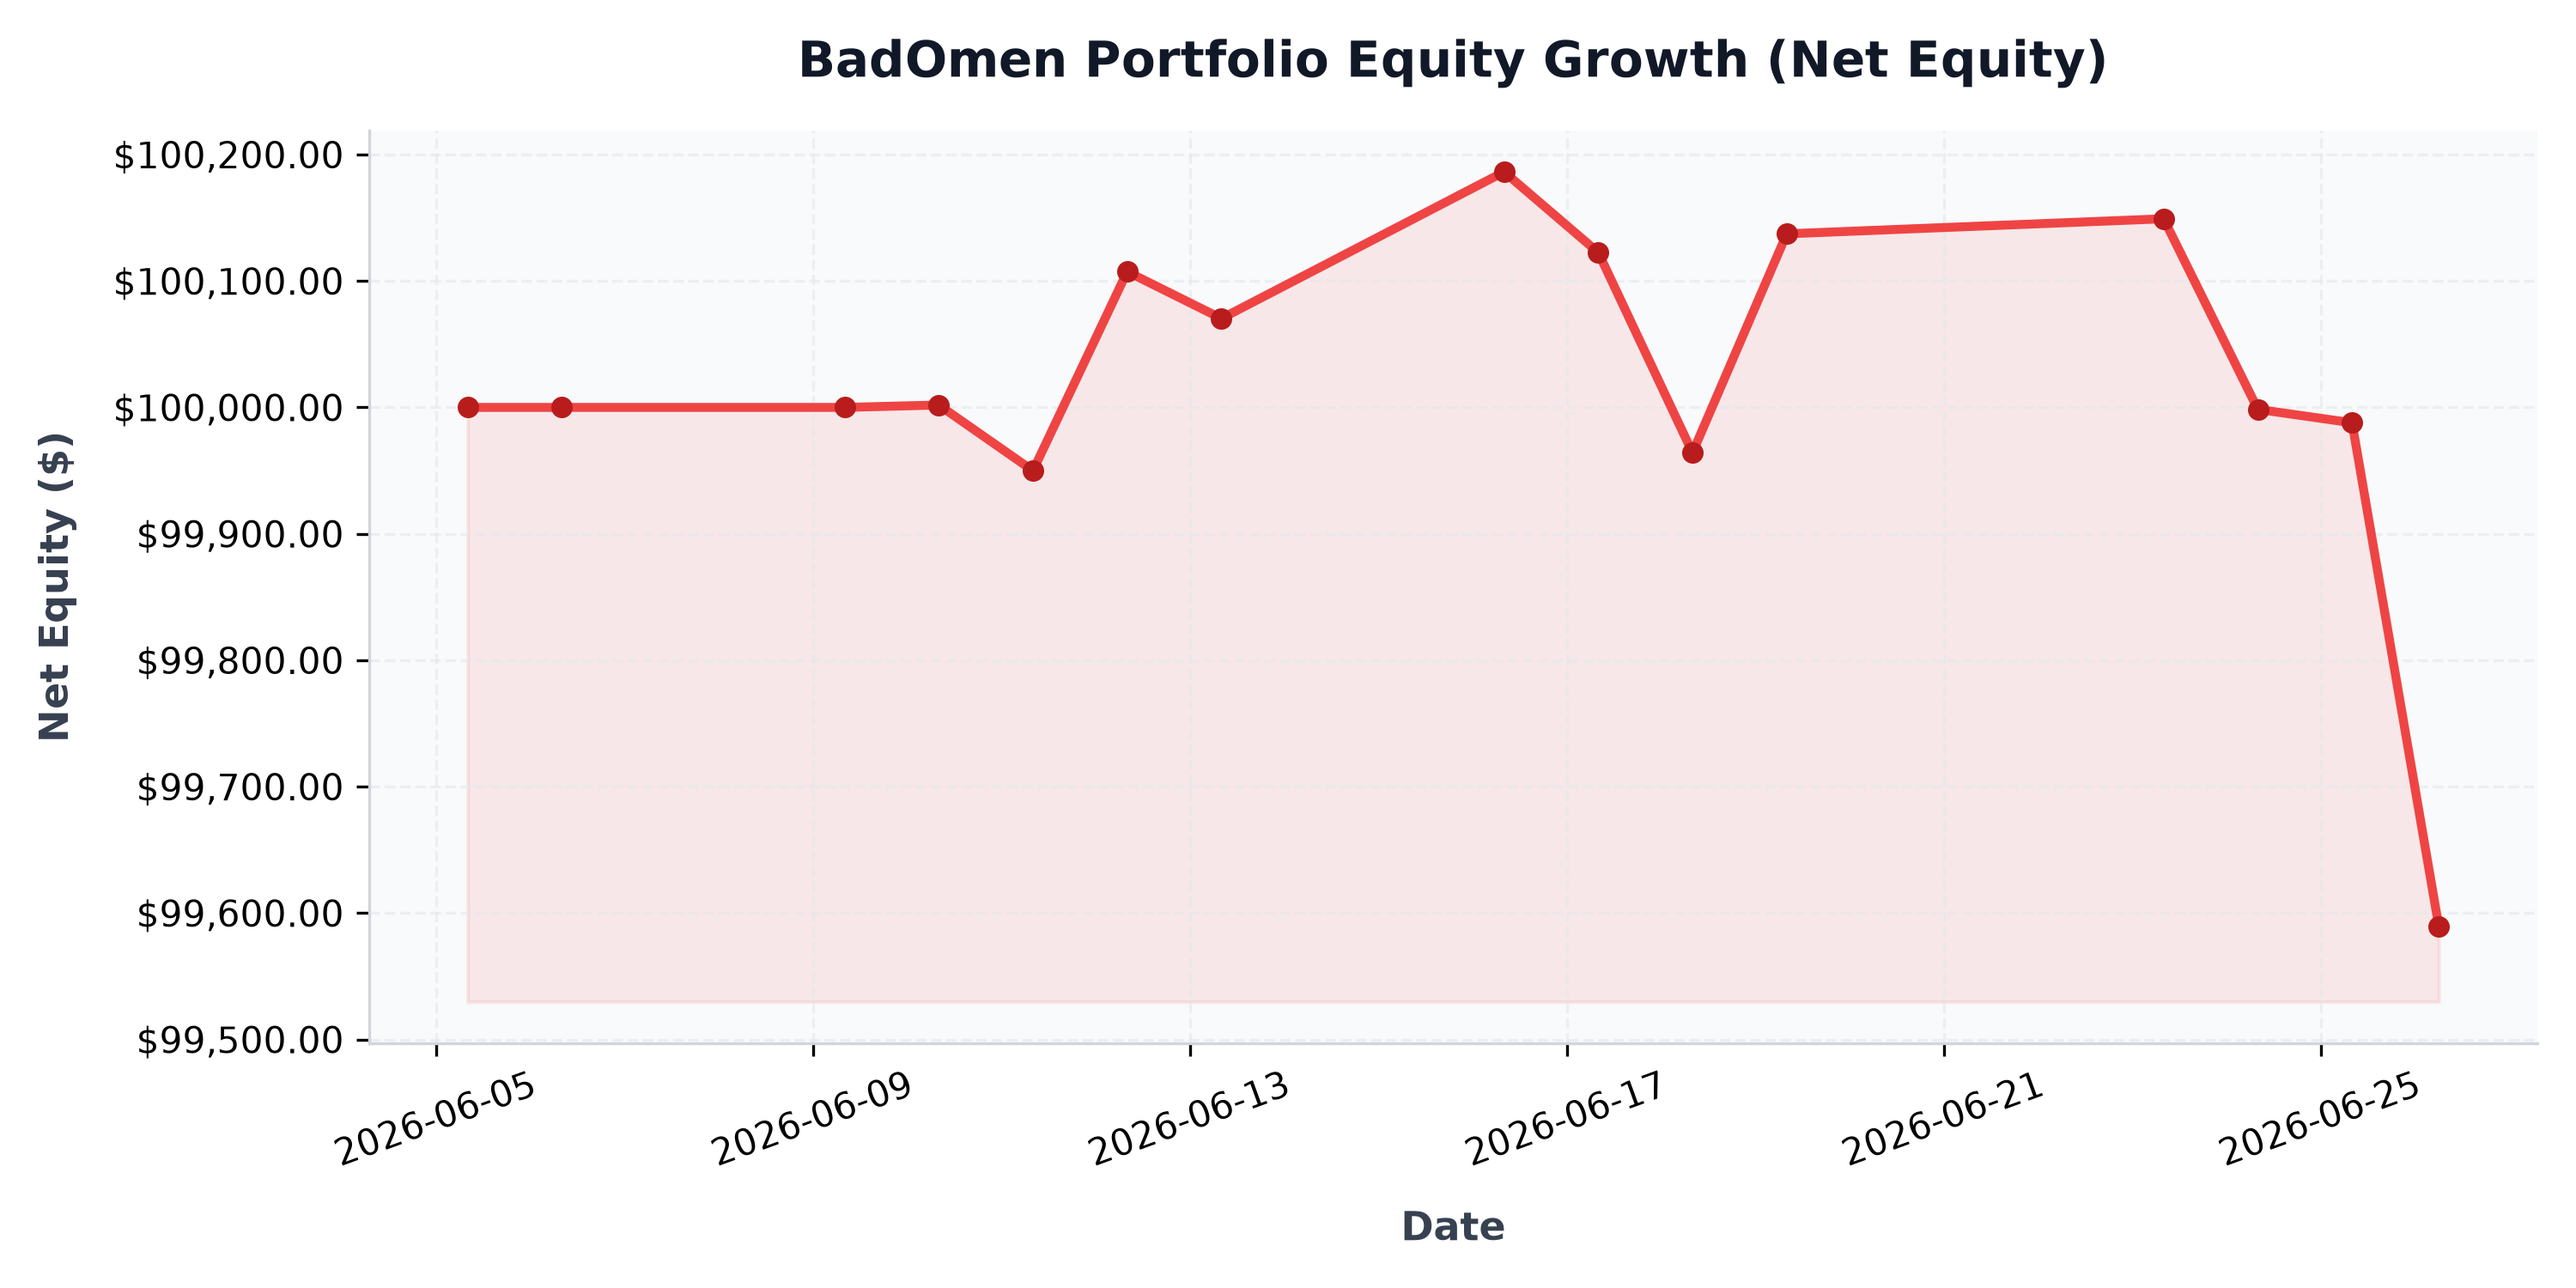
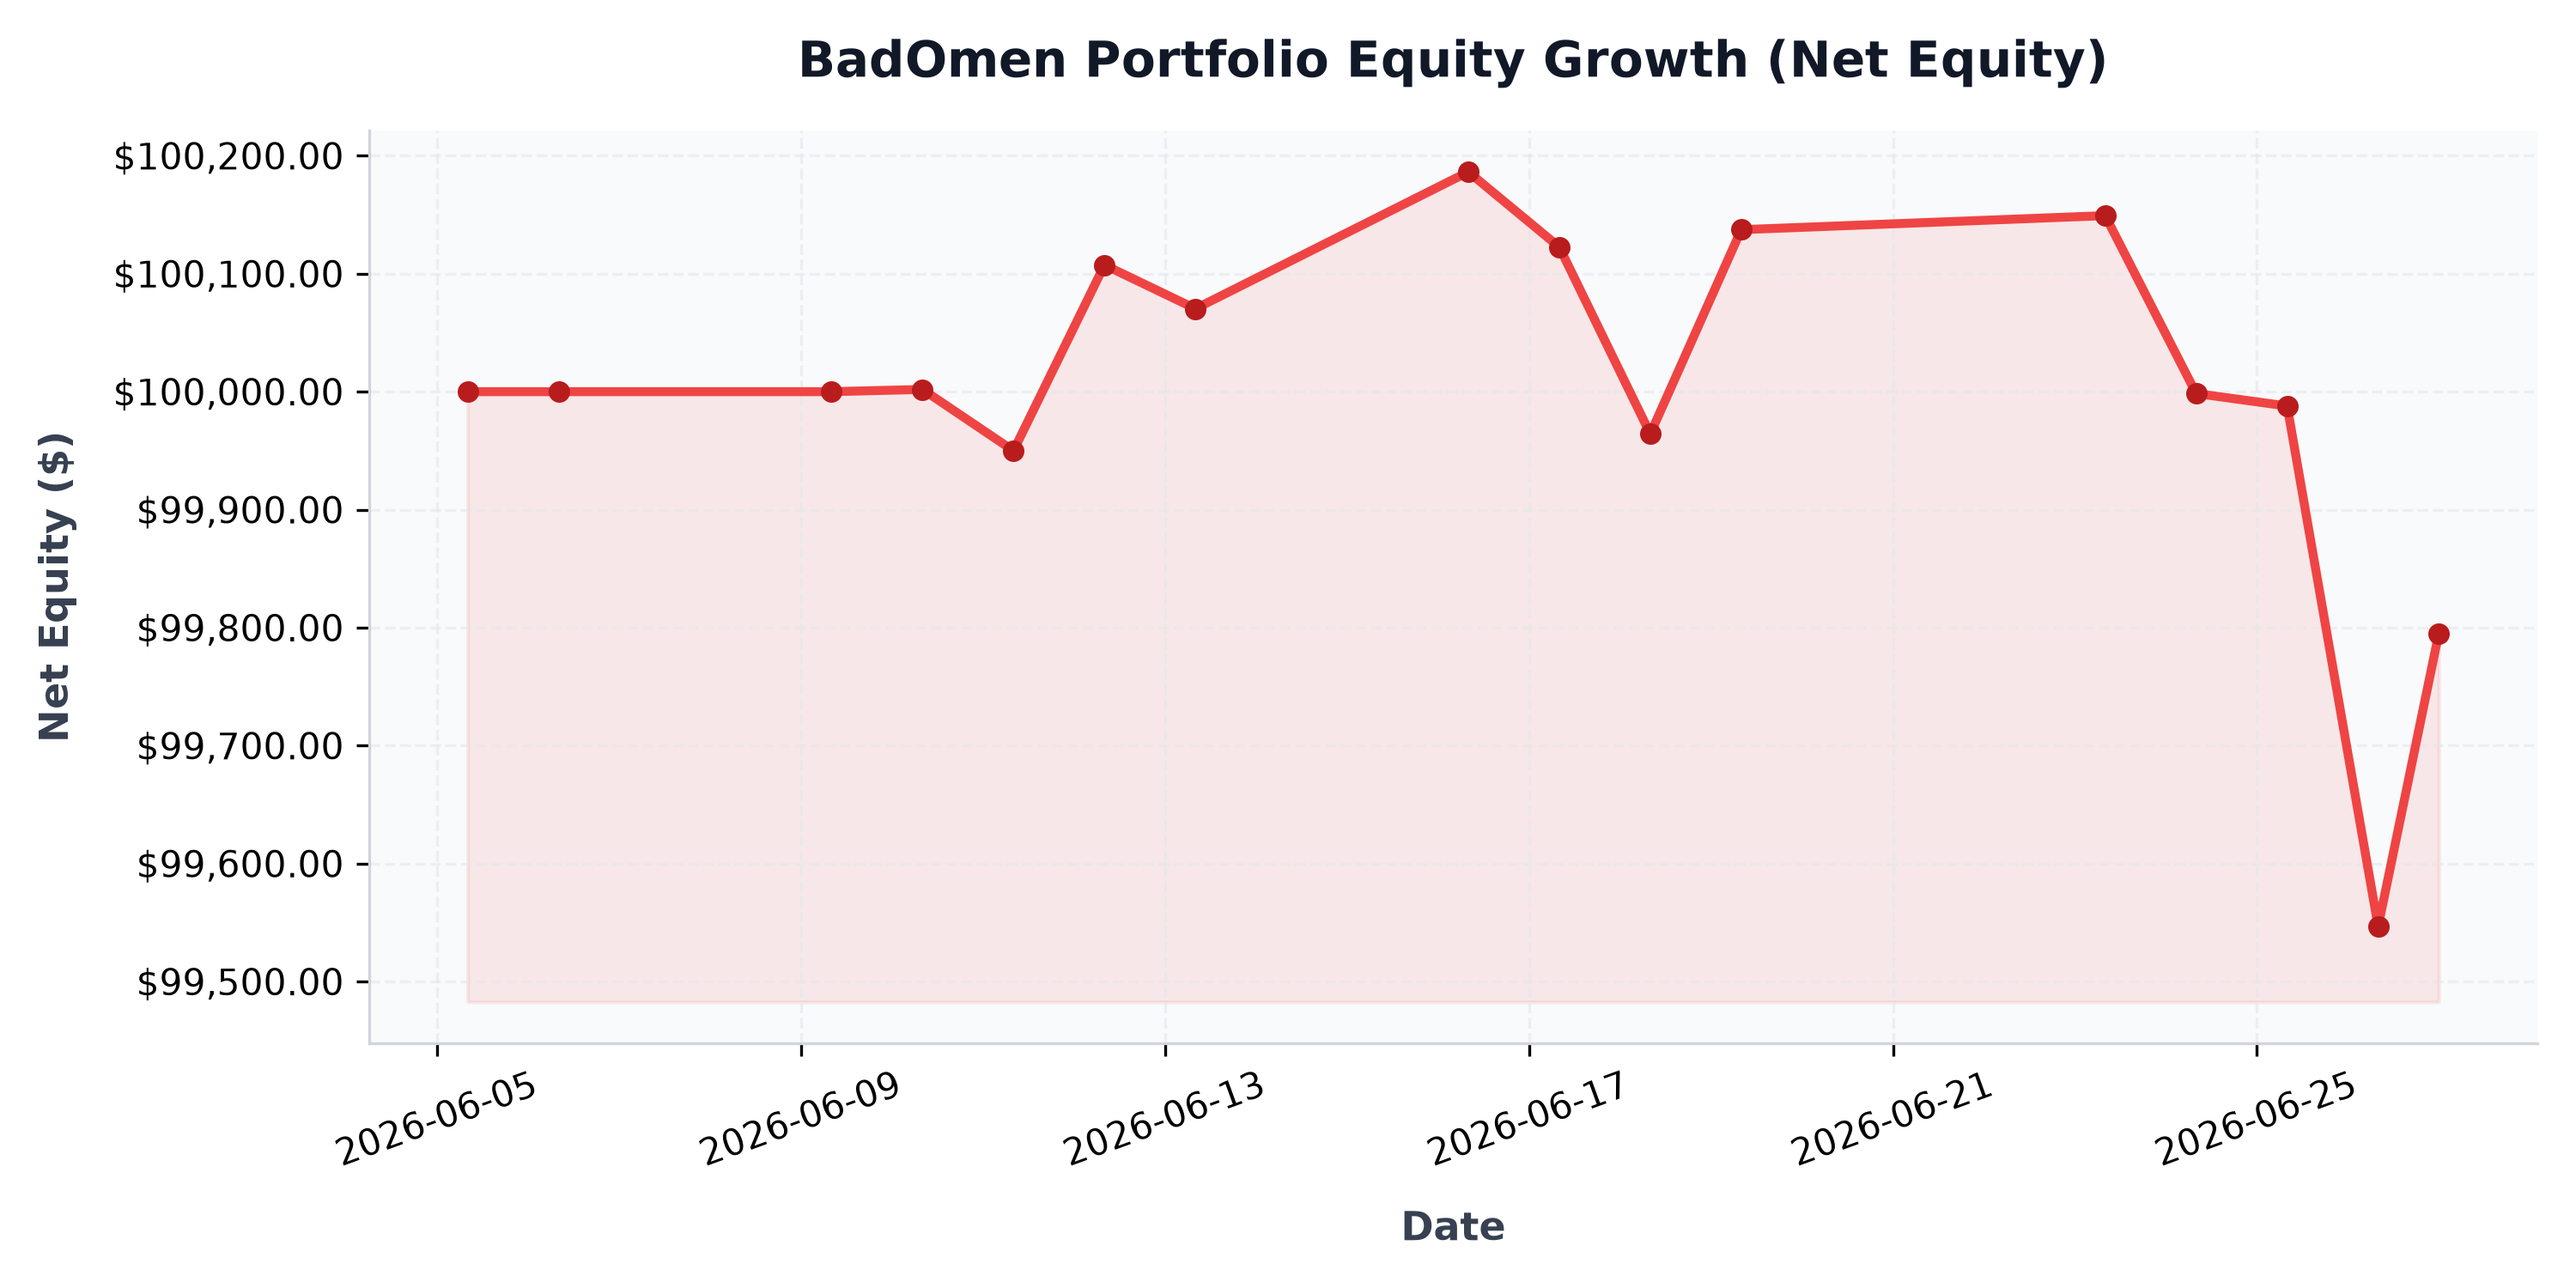
auto: daily portfolio status update - 2026-06-27 00:00:16

diff --git a/src/content/posts/portfolio-performance.md b/src/content/posts/portfolio-performance.md
@@ -1,6 +1,6 @@
 ---
 title: "BadOmen Algorithmic Portfolio Performance & PnL Report"
-pubDatetime: 2026-06-26T06:05:12.482922+08:00
+pubDatetime: 2026-06-27T00:00:16.324867+08:00
 description: "Live performance metrics, active holdings, and historic equity curve for the BadOmen automated paper trading portfolio."
 featured: true
 draft: false
@@ -16,11 +16,11 @@ Welcome to the live performance dashboard for **BadOmen**, our automated algorit
 ## 📊 Portfolio Summary
 | Performance Metric | Value | description |
 | :--- | :--- | :--- |
-| **Net Portfolio Equity** | **$99,589.48** | Total current liquidation value of cash and stock holdings |
-| **Total Unrealized P&L** | 🔴 **$-399.44** (-0.40%) | Total return of current open holdings |
-| **Cash Balance** | $86,342.48 | Idle reserve currency available for limit orders |
-| **Buying Power** | $376,708.20 | Margin-backed buying power for entry allocations |
-| **Report Updated** | `2026-06-26 06:05:12 (SGT)` | Timestamp of daily execution and sync run |
+| **Net Portfolio Equity** | **$99,795.06** | Total current liquidation value of cash and stock holdings |
+| **Total Unrealized P&L** | 🔴 **$-196.18** (-0.20%) | Total return of current open holdings |
+| **Cash Balance** | $86,342.47 | Idle reserve currency available for limit orders |
+| **Buying Power** | $377,283.82 | Margin-backed buying power for entry allocations |
+| **Report Updated** | `2026-06-27 00:00:16 (SGT)` | Timestamp of daily execution and sync run |
 
 ## 📈 Net Equity Growth Curve
 The chart below illustrates the historical performance of the account starting from our baseline capital funding of $100,000.00.
@@ -35,19 +35,19 @@ The chart below illustrates the exposure of our currently held active positions 
 ## 💼 Current Position Holdings
 | Ticker | Industry | Shares Owned | Average Entry Cost | Current Price | Unrealized P&L | Return (%) |
 | :--- | :--- | :--- | :--- | :--- | :--- | :--- |
-| **AN** | Auto & Truck Dealerships | 5 | $188.51 | $192.05 | 🟢 +$17.71 | +1.88% |
-| **AVGO** | Semiconductors | 1 | $385.71 | $380.00 | 🔴 $-5.71 | -1.48% |
-| **GDDY** | Software - Infrastructure | 12 | $76.21 | $79.35 | 🟢 +$37.68 | +4.12% |
-| **GGAL** | Banks - Regional | 17 | $56.04 | $49.30 | 🔴 $-114.57 | -12.03% |
-| **GPI** | Auto & Truck Dealerships | 3 | $316.15 | $300.82 | 🔴 $-45.99 | -4.85% |
-| **ITRI** | Scientific & Technical Instruments | 12 | $81.80 | $82.95 | 🟢 +$13.80 | +1.41% |
-| **META** | Internet Content & Information | 1 | $568.17 | $544.66 | 🔴 $-23.51 | -4.14% |
-| **NU** | Banks - Regional | 85 | $11.60 | $12.44 | 🟢 +$71.52 | +7.25% |
-| **ORCL** | Software - Infrastructure | 5 | $181.95 | $151.15 | 🔴 $-154.00 | -16.93% |
-| **PATH** | Software - Infrastructure | 187 | $10.42 | $9.98 | 🔴 $-82.34 | -4.23% |
-| **QCOM** | Semiconductors | 5 | $216.24 | $205.49 | 🔴 $-53.75 | -4.97% |
-| **SMCI** | Computer Hardware | 33 | $29.25 | $31.58 | 🟢 +$76.89 | +7.97% |
-| **WEN** | Restaurants | 257 | $8.02 | $7.49 | 🔴 $-137.17 | -6.65% |
+| **AN** | Auto & Truck Dealerships | 5 | $188.51 | $192.33 | 🟢 +$19.11 | +2.03% |
+| **AVGO** | Semiconductors | 1 | $385.71 | $370.62 | 🔴 $-15.09 | -3.91% |
+| **GDDY** | Software - Infrastructure | 12 | $76.21 | $83.00 | 🟢 +$81.54 | +8.92% |
+| **GGAL** | Banks - Regional | 17 | $56.04 | $49.90 | 🔴 $-104.46 | -10.96% |
+| **GPI** | Auto & Truck Dealerships | 3 | $316.15 | $301.26 | 🔴 $-44.67 | -4.71% |
+| **ITRI** | Scientific & Technical Instruments | 12 | $81.80 | $83.75 | 🟢 +$23.40 | +2.38% |
+| **META** | Internet Content & Information | 1 | $568.17 | $555.83 | 🔴 $-12.34 | -2.17% |
+| **NU** | Banks - Regional | 85 | $11.60 | $13.23 | 🟢 +$138.62 | +14.06% |
+| **ORCL** | Software - Infrastructure | 5 | $181.95 | $151.61 | 🔴 $-151.70 | -16.68% |
+| **PATH** | Software - Infrastructure | 187 | $10.42 | $10.41 | 🔴 $-1.00 | -0.05% |
+| **QCOM** | Semiconductors | 5 | $216.24 | $200.15 | 🔴 $-80.47 | -7.44% |
+| **SMCI** | Computer Hardware | 33 | $29.25 | $30.98 | 🟢 +$57.20 | +5.93% |
+| **WEN** | Restaurants | 257 | $8.02 | $7.61 | 🔴 $-106.33 | -5.16% |
 
 ## 🔴 Recent Realized Trades
 | Ticker | Shares Sold | Entry Price | Exit Price | Strategy Trigger | Realized Return | Exit Date |
